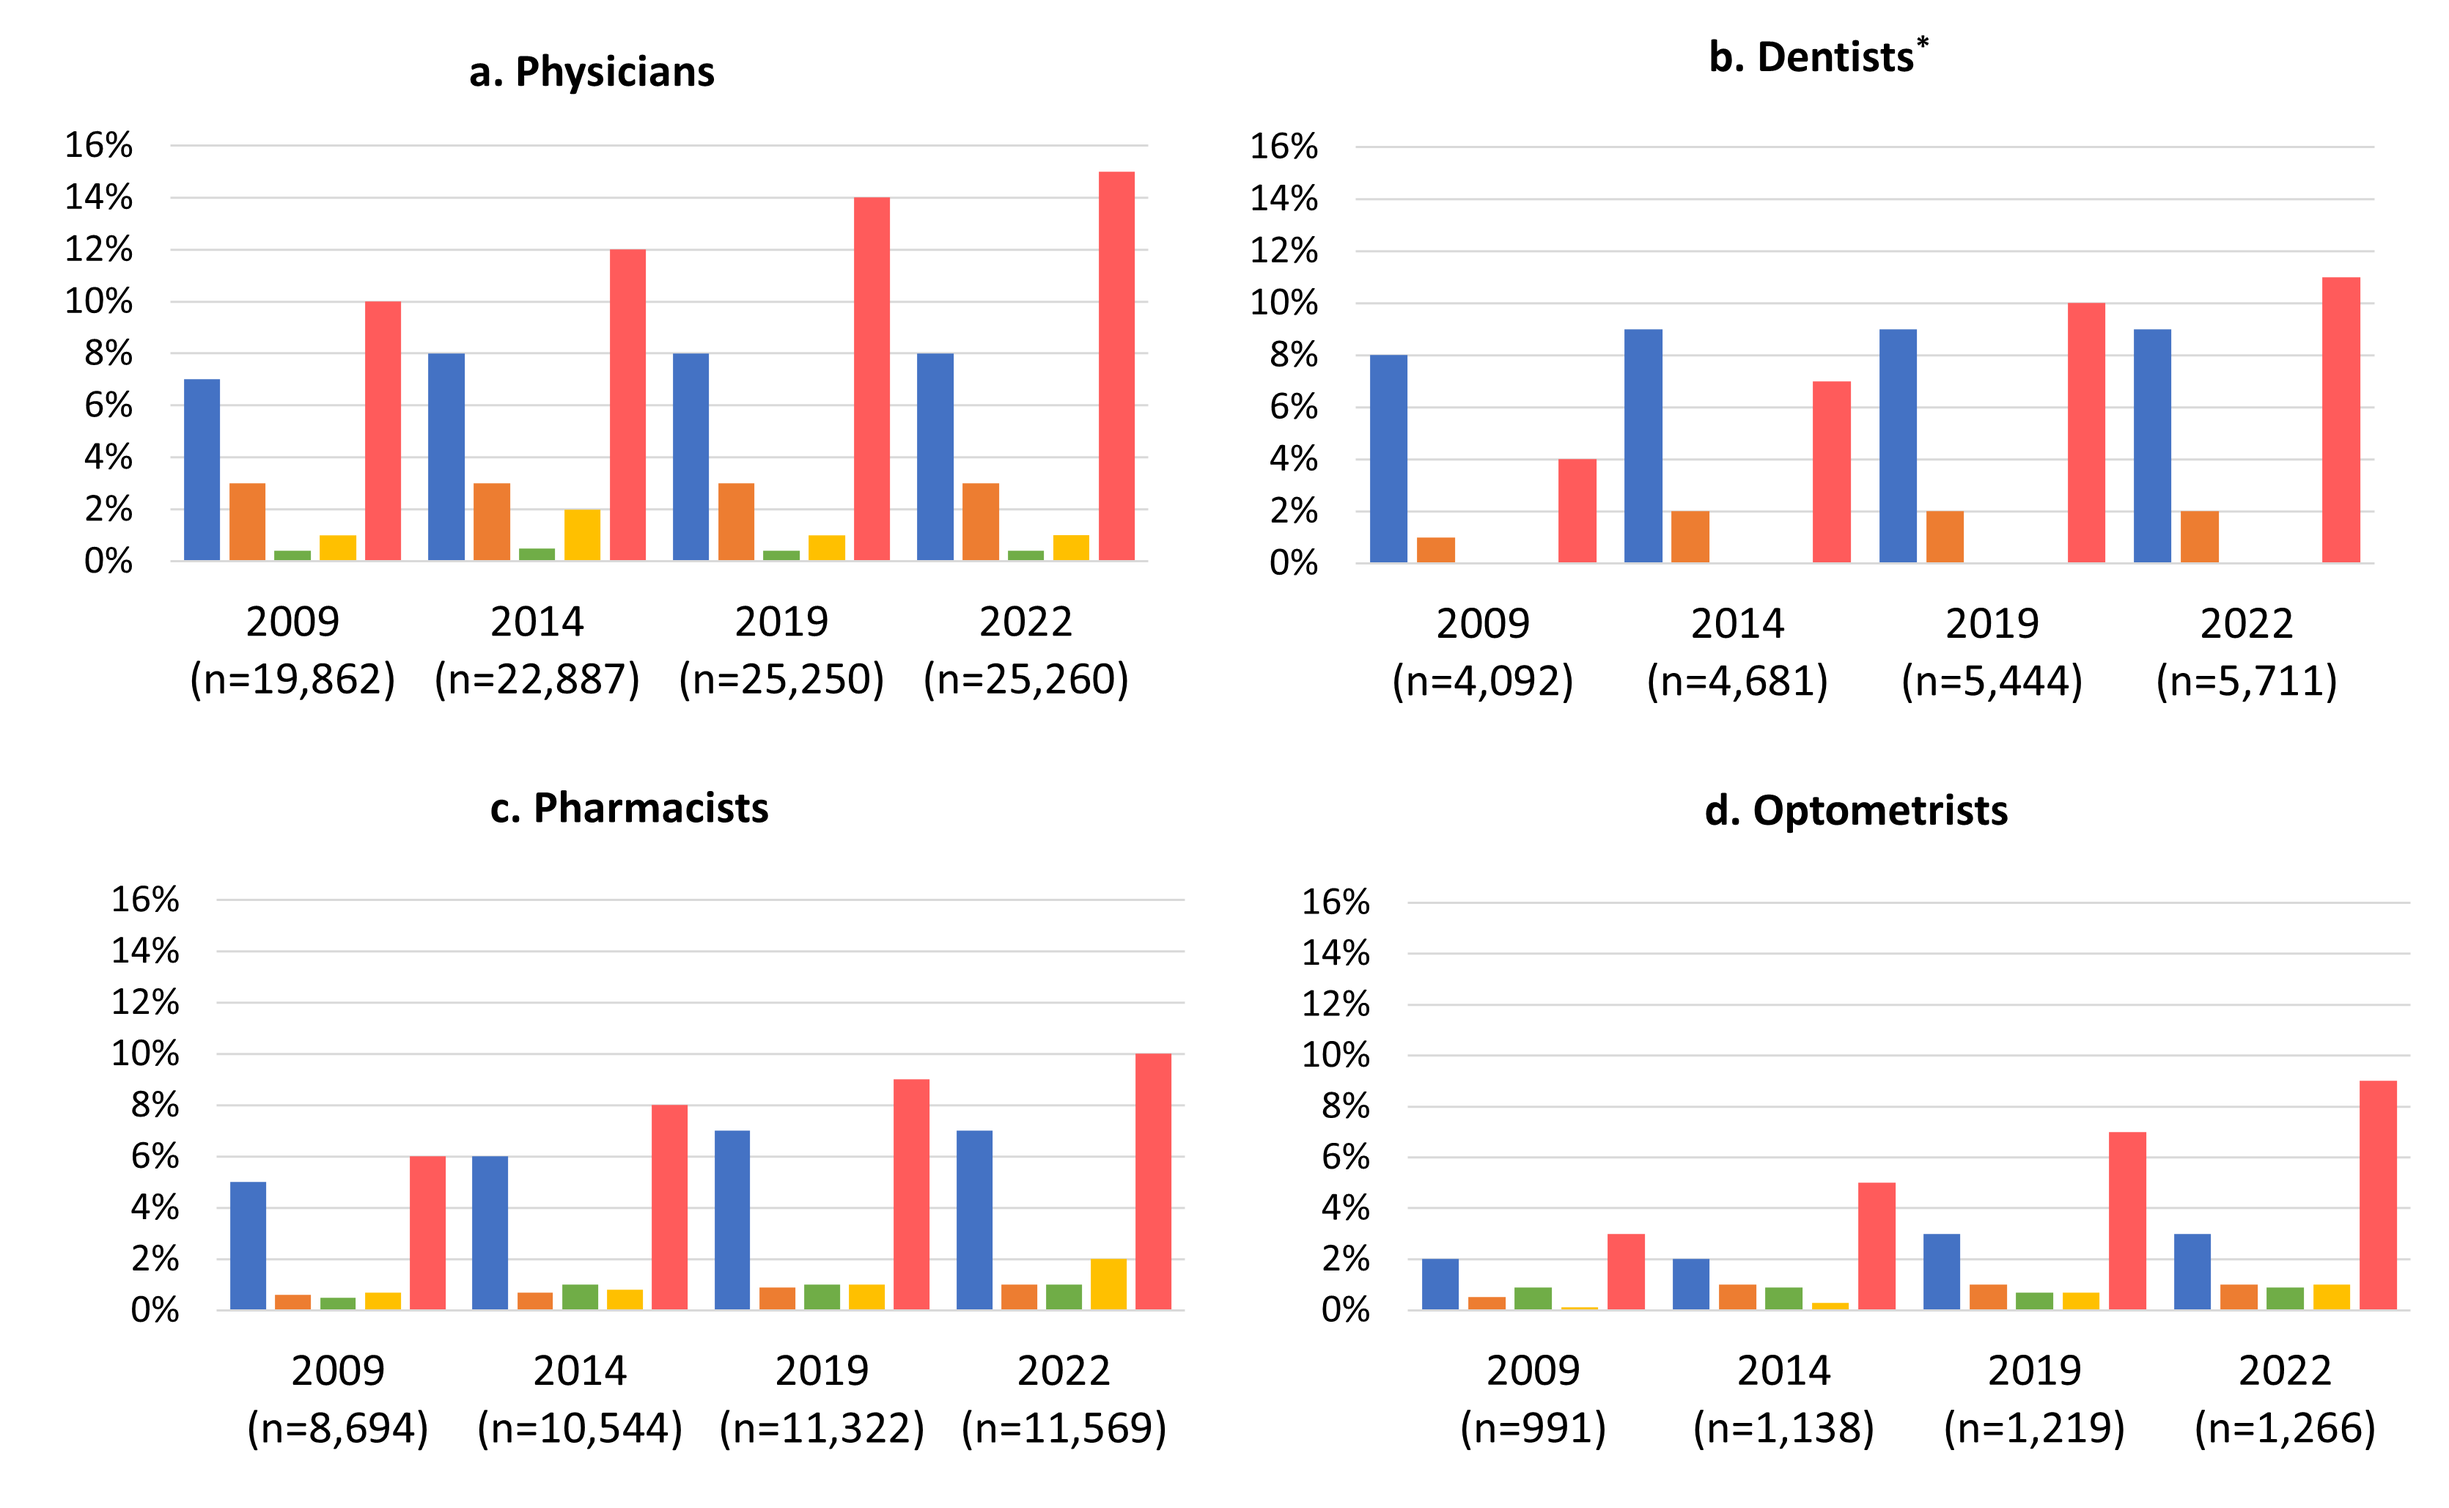
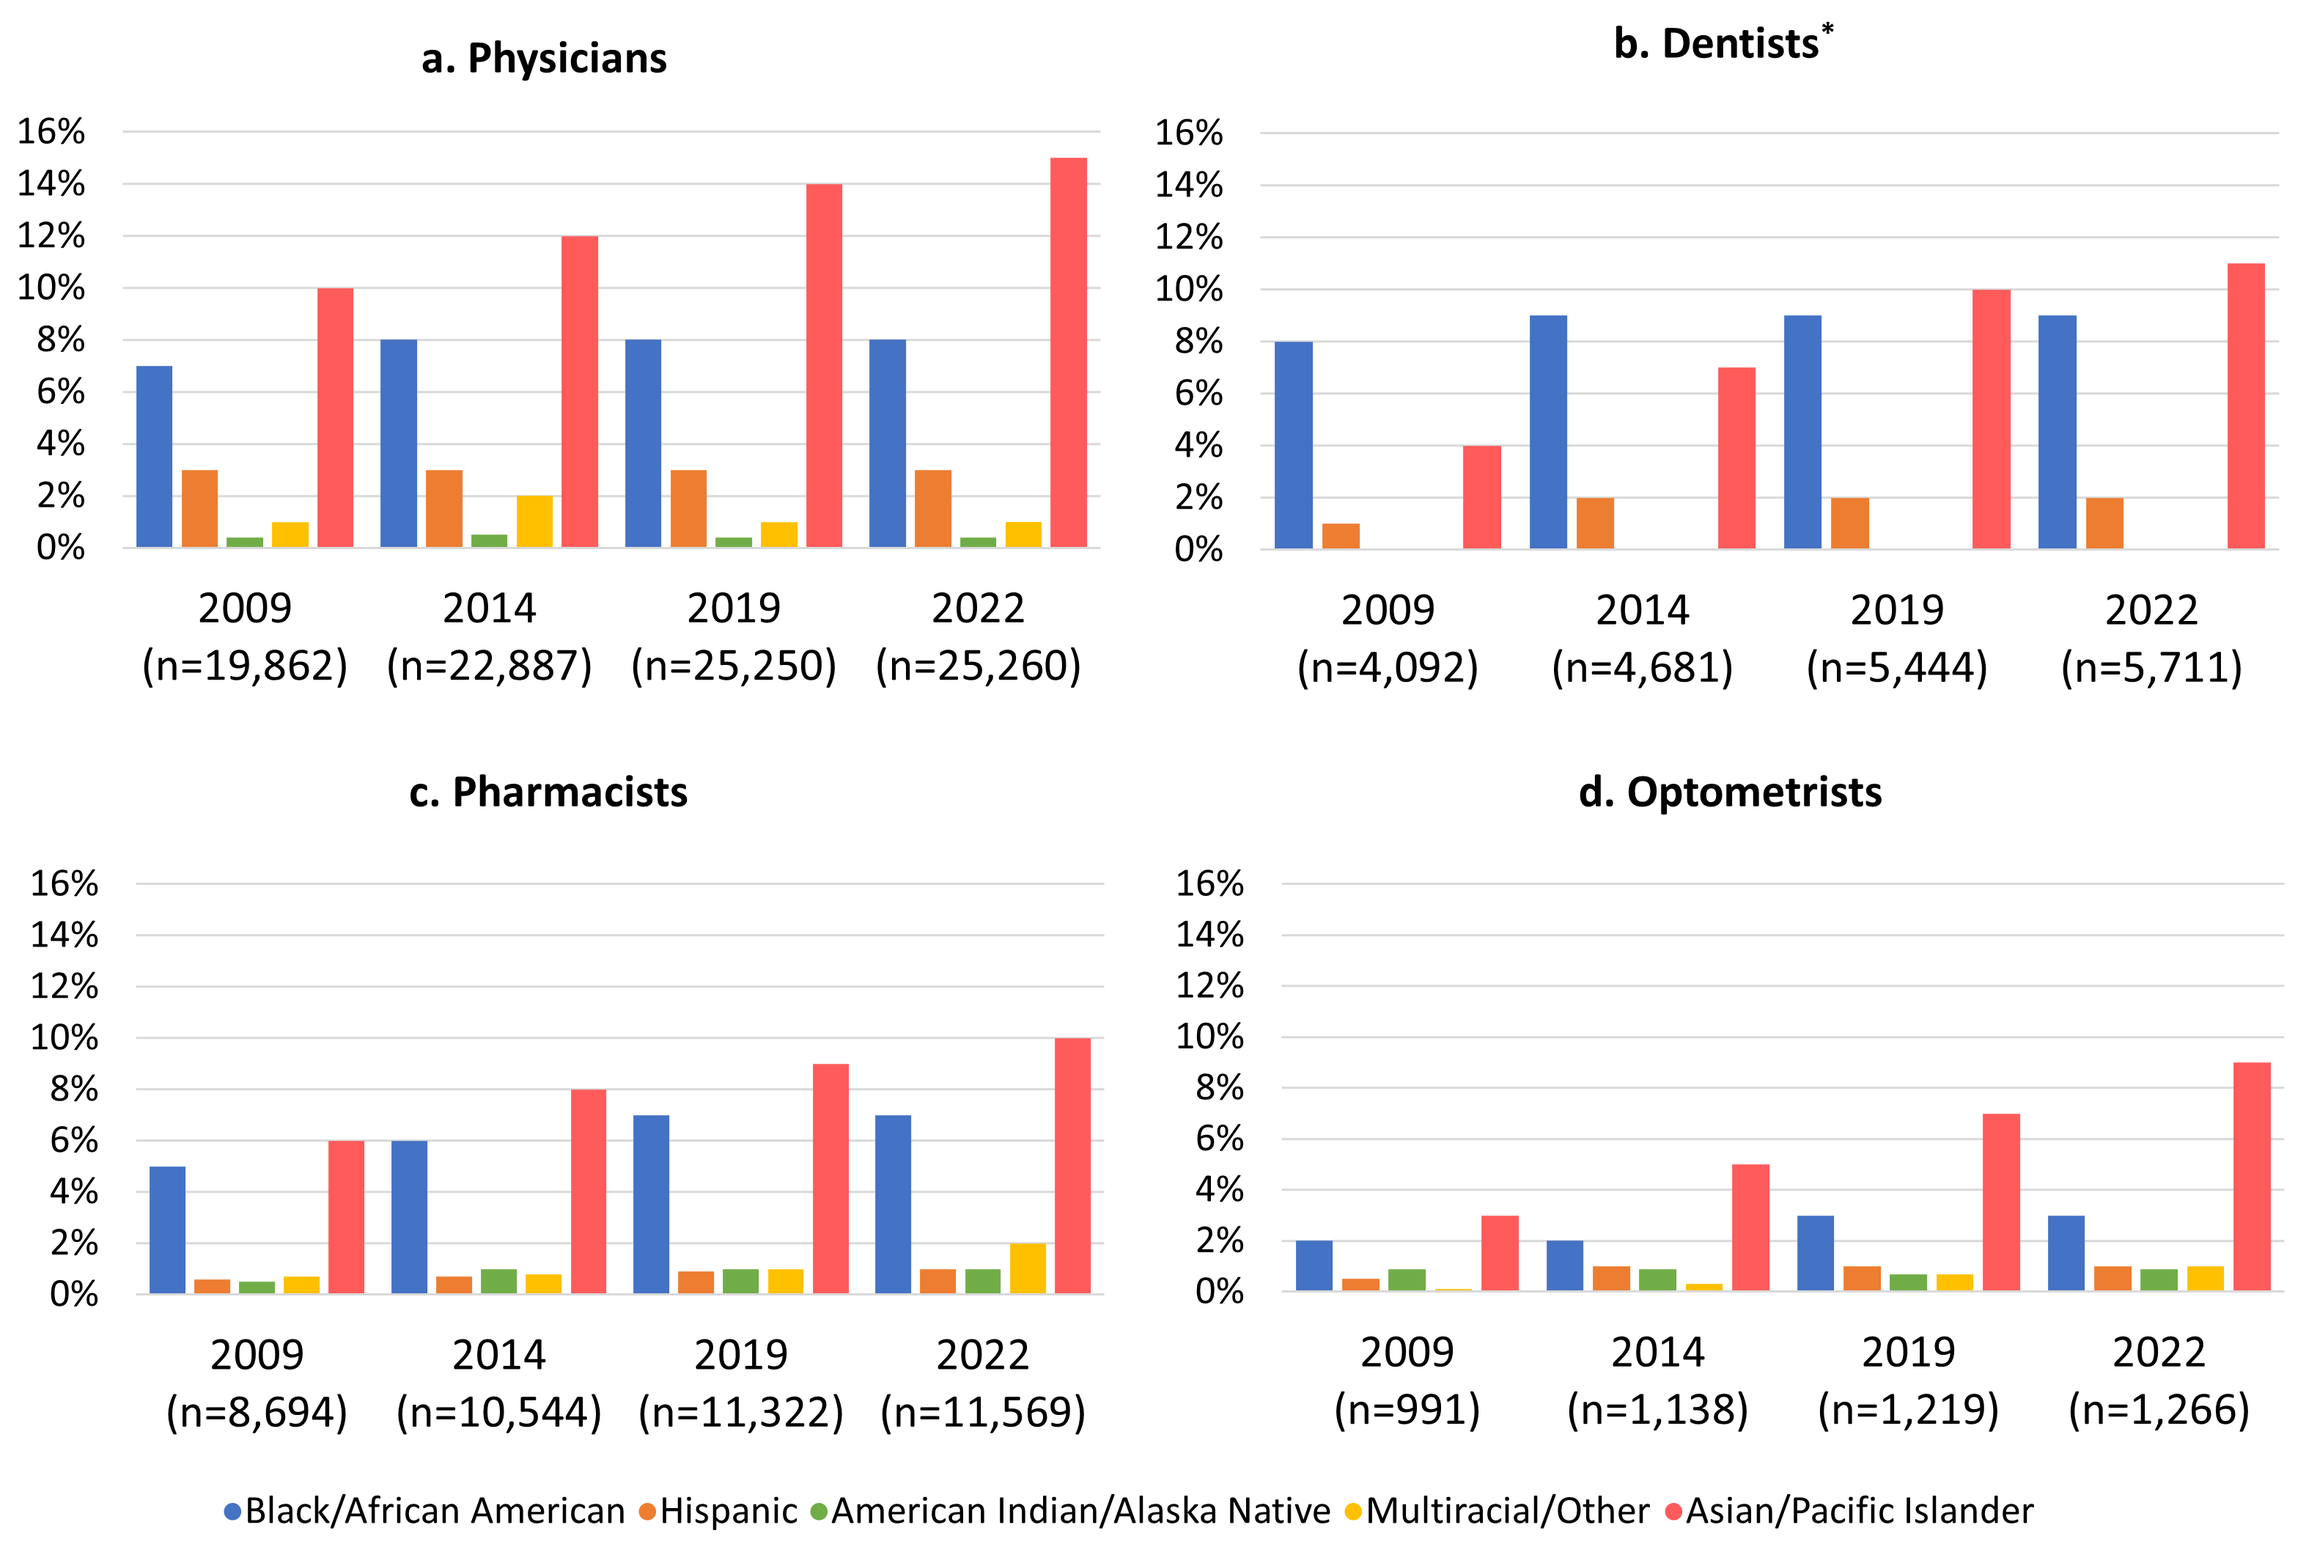
fixed a few issues in diversity trends blog

diff --git a/content/blog/trends_race_ethnicity_health_professions.md b/content/blog/trends_race_ethnicity_health_professions.md
@@ -100,7 +100,7 @@ identified as Asian/Pacific Islander increased from 3% in 2009, 5% in
 identified as American Indian/Alaska Native remained ≤1% across 2014,
 2019 and 2022.
 
-**Figure 1a-b. Racial/Ethnic Diversity of NC Physicians, Dentists, Pharmacists, and Optometrists across 2009, 2014, 2019, 2022**
+**Figure 1a-d. Racial/Ethnic Diversity of NC Physicians, Dentists, Pharmacists, and Optometrists across 2009, 2014, 2019, 2022**
 
 {{< img  alt="Four clustered vertical bar charts displaying the racial/ethnic proportions of North Carolina physicians, dentists, pharmacists and optometrists, using Black/African American, Hispanic, American Indian/Alaska Native, Multiracial/Other, and Asian Pacific Islander between 2009 and 2022, finding minimal increases in these professions diversity over time." src="/images/posts/diversity/post_2_figure_1.png" caption="Source: North Carolina Health Professions Data System with data derived from North Carolina licensing boards, 2009, 2014, 2019, and 2022. Figures include active, instate non-federal, non-resident-in-training physicians, pharmacists, dentists, and optometrists licensed as of October 31, 2022. These data examine the practitioners who reported race/ethnicity data to their respective North Carolina state board. * The North Carolina State Board of Dental Examiners does not collect data on the American Indian/Alaska Native racial/ethnic category.">}}
 
